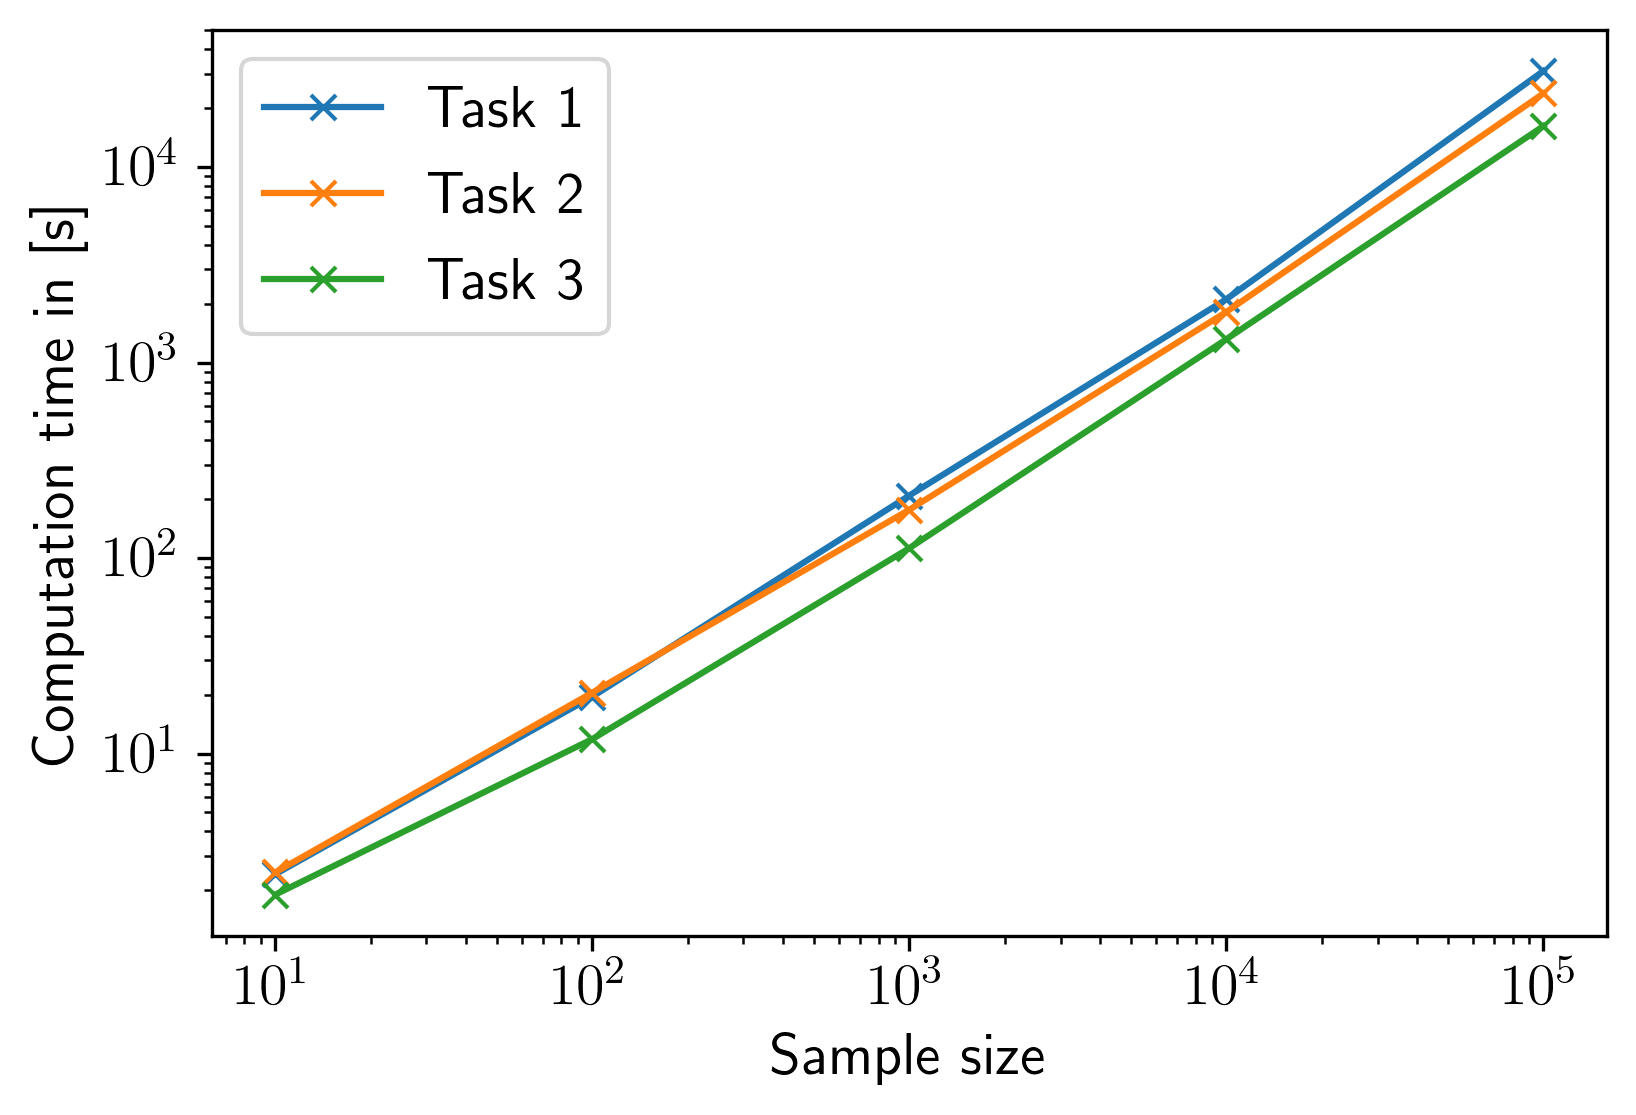
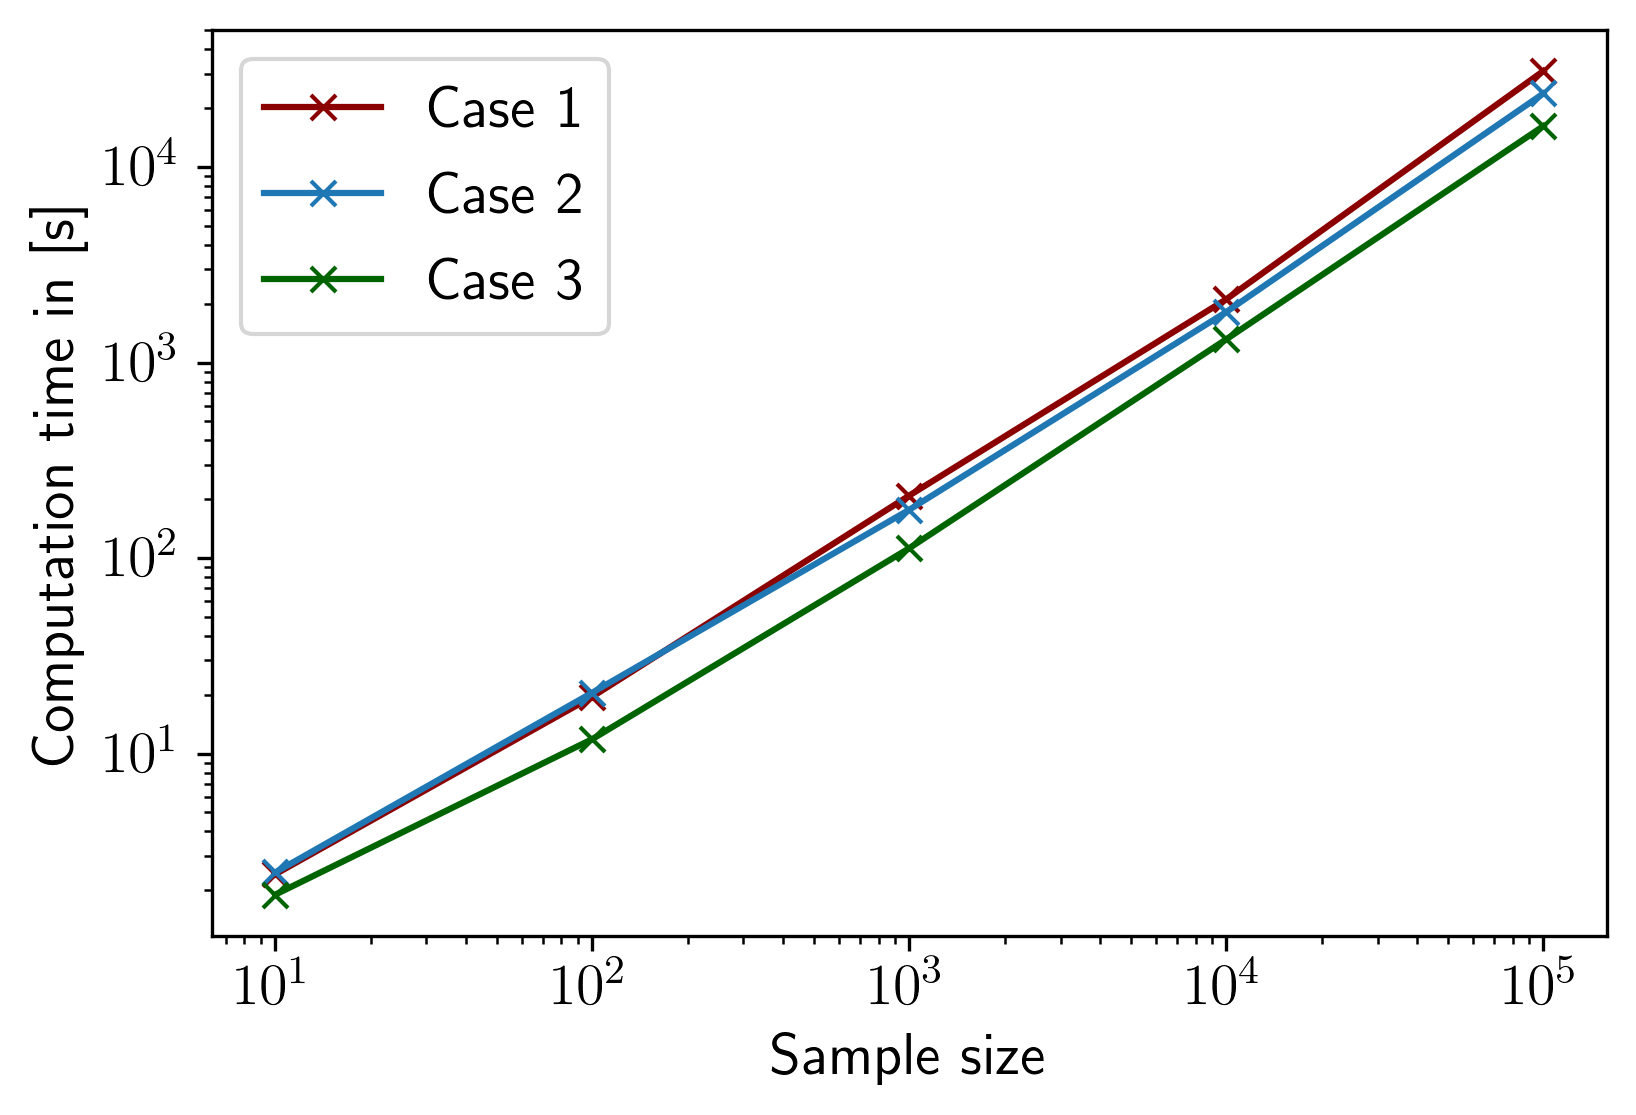
Add plots

diff --git a/Milestone_3/2_src/plotting.py b/Milestone_3/2_src/plotting.py
@@ -11,6 +11,8 @@ import json
 from pathlib import Path
 import os
 
+from model_options import output
+
 ###############################################################################
 ### Matplotlib Settings
 ###############################################################################
@@ -54,31 +56,308 @@ for task in range(1,4):
         )
         computation_times['task_'+str(task)].append(df.iloc[1,1])
 
-plt.plot(
+fig1 = plt.figure(1)
+ax1 = fig1.gca()
+
+ax1.plot(
     sample_sizes,
     computation_times['task_1'],
-    label='Task 1',
-    marker='x')
-plt.plot(
+    label='Case 1',
+    marker='x',
+    color='darkred')
+ax1.plot(
     sample_sizes,
     computation_times['task_2'],
-    label='Task 2',
+    label='Case 2',
     marker='x')
-plt.plot(
+ax1.plot(
     sample_sizes,
     computation_times['task_3'],
-    label='Task 3',
-    marker='x')
-plt.legend()
-plt.xlabel('Sample size')
-plt.ylabel('Computation time in [s]')
-plt.xscale('log')
-plt.yscale('log')
+    label='Case 3',
+    marker='x',
+    color='darkgreen')
+ax1.legend()
+ax1.set_xlabel('Sample size')
+ax1.set_ylabel('Computation time in [s]')
+ax1.set_xscale('log')
+ax1.set_yscale('log')
 
-plt.savefig(
-    os.path.join(saving_path, 'computation_times.png'),
-    dpi=dpi,
-    bbox_inches='tight'
+if output:
+    fig1.savefig(
+        os.path.join(saving_path, 'computation_times.png'),
+        dpi=dpi,
+        bbox_inches='tight'
+    )
+
+###############################################################################
+### Sensitivity plot for sample size = 10000
+###############################################################################
+
+from model_options import sensitivity_analysis
+sensitivity_analysis = True
+from parameters import stor_levels_max
+from parameters import test_size
+
+sample_size = 10000
+
+sense_path = os.path.join(
+    results_path,
+    'stochastic',
+    'task_4',
+    str(sample_size),
+    'sensitivity analysis',
+    'testing'
 )
 
+generation_mix = ['p1', 'p2', 'pg']
 
+stor_level_to_mean = {}
+stor_level_to_var = {}
+stor_level_to_gen_mix = {
+    stor_level: {generation: [] for generation in generation_mix}
+    for stor_level in stor_levels_max
+}
+stor_level_to_gen_mix_mean = {stor_level: {} for stor_level in stor_levels_max}
+
+for stor_level in stor_levels_max:
+    # mean and variance
+    path = os.path.join(
+        sense_path,
+        'mean_var_' + str(stor_level) + '_' + str(test_size) + '.csv'
+    )
+    df = pd.read_csv(path)
+    stor_level_to_mean[stor_level] = df.iloc[0,0]
+    stor_level_to_var[stor_level] = df.iloc[0,1]
+
+    # generation mix
+    path = os.path.join(
+        sense_path,
+        'testing_results_' + str(stor_level) + '_' + str(test_size) + '.json'
+    )
+    with open(path) as f:
+        # returns JSON object as a dictionary
+        results = json.load(f)
+
+    for sample, dic_var in results.items():
+        pg = 0
+        p1 = 0
+        p2 = 0
+        for var, dic_values in dic_var.items():
+            if var == 'pg':
+                for hour, value in dic_values.items():
+                    pg += float(value)
+            if var == 'p1':
+                for hour, value in dic_values.items():
+                    p1 += float(value)
+            if var == 'p2':
+                for hour, value in dic_values.items():
+                    p2 += float(value)
+        stor_level_to_gen_mix[stor_level]['pg'].append(pg)
+        stor_level_to_gen_mix[stor_level]['p1'].append(p1)
+        stor_level_to_gen_mix[stor_level]['p2'].append(p2)
+
+    stor_level_to_gen_mix_mean[stor_level]['pg'] = np.mean(
+        stor_level_to_gen_mix[stor_level]['pg']
+    )
+    stor_level_to_gen_mix_mean[stor_level]['p1'] = np.mean(
+        stor_level_to_gen_mix[stor_level]['p1']
+    )
+    stor_level_to_gen_mix_mean[stor_level]['p2'] = np.mean(
+        stor_level_to_gen_mix[stor_level]['p2']
+    )
+
+means = [stor_level_to_mean[stor_level] for stor_level in stor_levels_max]
+stor_levels_string = [str(stor_level) for stor_level in stor_levels_max]
+
+fig2 = plt.figure(2)
+ax2 = fig2.gca()
+
+ax2.bar(stor_levels_string, means)
+
+ax2.set_xlabel('Storage capacity in kWh')
+ax2.set_ylabel('Objective value in \$')
+ax2.set_ylim([85,100])
+
+if output:
+    fig2.savefig(
+        os.path.join(saving_path, 'sense_analyse.png'),
+        dpi=dpi,
+        bbox_inches='tight'
+    )
+
+###############################################################################
+### Bound Development
+###############################################################################
+
+datau = pd.read_csv(
+    os.path.join(
+        results_path,
+        'stochastic',
+        'task_3',
+        '10000',
+        'objective_values_4.csv'
+    ),
+    header = None
+)
+datal = pd.read_csv(
+    os.path.join(
+        results_path,
+        'stochastic',
+        'task_3',
+        '10000',
+        'lower_bounds_4.csv'
+    ),
+    header = None
+)
+xu = datau.values
+xl = datal.values
+
+b = np.arange(2,7)
+
+fig3 = plt.figure(3, figsize=(12, 7))
+ax3 = fig3.gca()
+
+# Create an axes instance
+ax3 = fig3.add_subplot(111)
+
+#ax.plot(b, xu[0],  b, xl[0])
+ax3.plot(b, xu[0][2:],  b, xl[0][2:])
+ax3.set_xlabel('Iterations',fontsize = 15)
+ax3.set_ylabel('Value',fontsize = 15)
+ax3.legend(['upper bound','lower bound'],fontsize=15)
+
+if output:
+    fig3.savefig(
+        os.path.join(saving_path, 'bound_evolution.png'),
+        dpi=dpi,
+        bbox_inches='tight'
+    )
+
+###############################################################################
+### Variance
+###############################################################################
+
+means1 = []
+varis1 = []
+
+for i in [10,100,1000,10000,100000]:
+    data_mv = pd.read_csv(
+        os.path.join(
+            results_path,
+            'stochastic',
+            'task_1',
+            str(i),
+            'testing',
+            'mean_var_4_1000.csv'
+        ),
+        header = None)
+    x = data_mv.values
+    means1.append(float(x[1][0]))
+    varis1.append(float(x[1][1]))
+
+means2 = []
+varis2 = []
+
+for i in [10,100,1000,10000,100000]:
+    data_mv = pd.read_csv(
+        os.path.join(
+            results_path,
+            'stochastic',
+            'task_2',
+            str(i),
+            'testing',
+            'mean_var_4_1000.csv'
+        ),
+        header = None)
+    x = data_mv.values
+    means2.append(float(x[1][0]))
+    varis2.append(float(x[1][1]))
+
+means3 = []
+varis3 = []
+
+for i in [10,100,1000,10000,100000]:
+    data_mv = pd.read_csv(
+        os.path.join(
+            results_path,
+            'stochastic',
+            'task_3',
+            str(i),
+            'testing',
+            'mean_var_4_1000.csv'
+        ),
+        header = None)
+    x = data_mv.values
+    means3.append(float(x[1][0]))
+    varis3.append(float(x[1][1]))
+
+sz = [10,100,1000,10000,100000]
+b = np.arange(1,6)
+
+means1 = np.array(means1)
+varis1 = np.sqrt(np.array(varis1))
+yplus1 = means1+varis1
+yminus1 = means1-varis1
+
+means2 = np.array(means2)
+varis2 = np.sqrt(np.array(varis2))
+yplus2 = means2+varis2
+yminus2 = means2-varis2
+
+means3 = np.array(means3)
+varis3 = np.sqrt(np.array(varis3))
+yplus3 = means3+varis3
+yminus3 = means3-varis3
+
+fig4, (ax1, ax2, ax3) = plt.subplots(3,1, figsize=(12, 7),sharex=True)
+
+ax1.bar(b,varis1,color='darkred',label='Case 1')
+ax1.set_xticks(b,sz)
+ax1.set_ylim([2.5,3.5])
+ax1.legend()
+
+
+ax2.bar(b,varis2,label='Case 2')
+ax2.set_xticks(b,sz)
+ax2.set_ylim([2.5,3.5])
+ax2.set_ylabel('Standard Deviation',fontsize=15)
+ax2.legend()
+
+
+ax3.bar(b,varis3,color='darkgreen',label='Case 3')
+ax3.set_ylim([2.5,3.5])
+ax3.set_xlabel('Sample Size', fontsize=15)
+ax3.legend()
+
+plt.xticks(b,sz)
+
+if output:
+    fig4.savefig(
+        os.path.join(saving_path, 'standard_deviations.png'),
+        dpi=dpi,
+        bbox_inches='tight'
+    )
+
+###############################################################################
+### Mean
+###############################################################################
+
+fig5 = plt.figure(figsize=(12,7))
+ax5 = fig5.gca()
+ax5.plot(b,means1,color='darkred',label='Case 1')
+ax5.plot(b,means2,label='Case 2')
+ax5.plot(b,means3,color='darkgreen',label='Case 3')
+
+
+ax5.set_xlabel('Sample Size',fontsize=15)
+ax5.set_ylabel('Objective Value',fontsize=15)
+ax5.set_xticks(b,sz)
+ax5.grid()
+ax5.legend(fontsize=13)
+
+if output:
+    fig5.savefig(
+        os.path.join(saving_path, 'means.png'),
+        dpi=dpi,
+        bbox_inches='tight'
+    )
